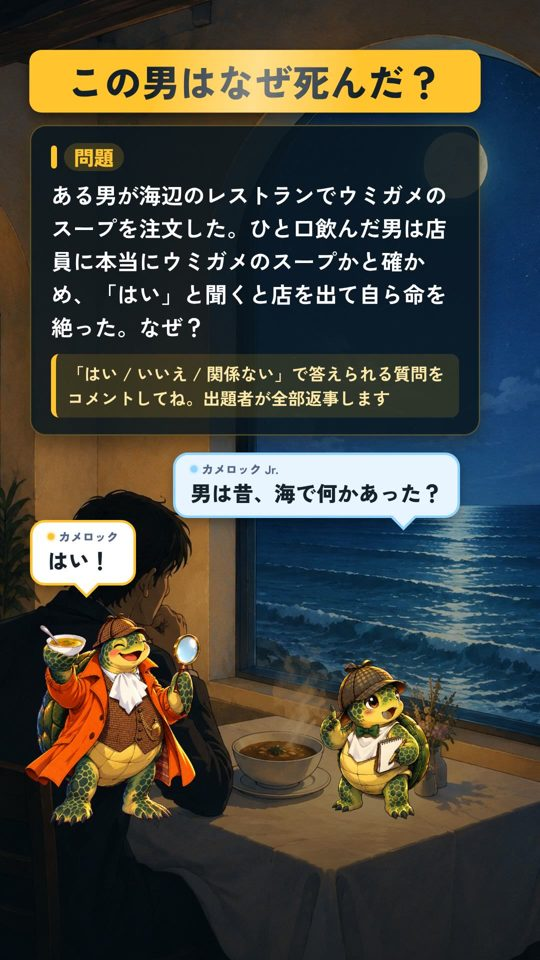
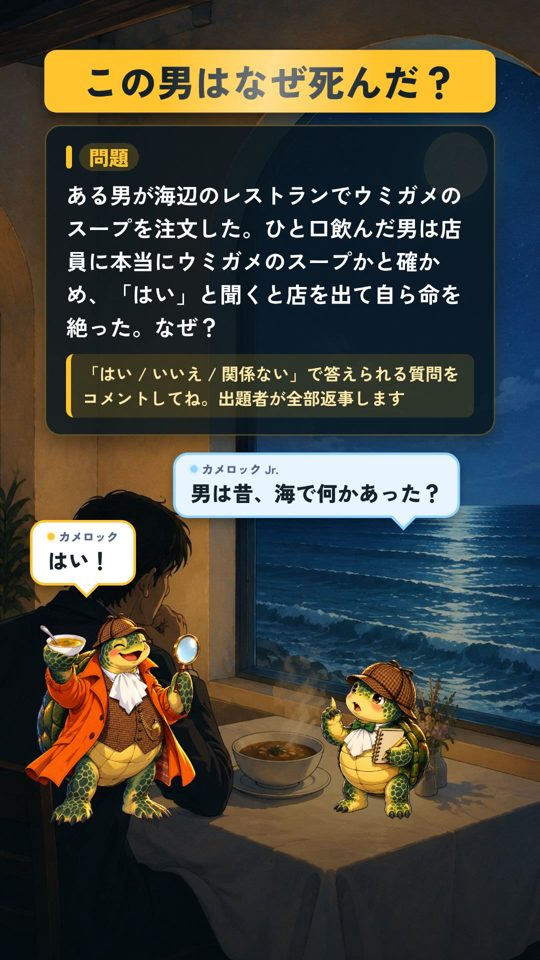
21-2 第 3 稿: Jr. の視線を親へ向け、つかみ帯と問題カードを左右中央に配置
- Jr. を「頭・体・瞳を左（父の方向）へ向ける」指定で生成し直し（単色マゼンタ背景を明示して透過を確実化）
- つかみ帯と問題カードの left を 60 → 90 にして左右の余白を揃えた
- key_out_background.py を外周の代表色 + 外周連結の塗りつぶし方式へ改良（彩度の低い輪郭線は背景色から除外）。ノイズ状背景は抜けないため単色背景で生成し直す方針を README に記録

Changed region(s): [[0.0296, 0.0312, 0.9481, 0.4688], [0.5926, 0.6875, 0.8, 0.875]]

diff --git a/content/video-build/umigame-soup-1/remotion/src/UmigameReel.tsx b/content/video-build/umigame-soup-1/remotion/src/UmigameReel.tsx
@@ -111,7 +111,7 @@ export const UmigameReel: React.FC<UmigameReelProps> = ({
         name="Hook band"
         style={{
           position: "absolute",
-          left: 60,
+          left: 90,
           top: 100,
           width: 900,
           boxSizing: "border-box",
@@ -149,7 +149,7 @@ export const UmigameReel: React.FC<UmigameReelProps> = ({
         name="Problem card"
         style={{
           position: "absolute",
-          left: 60,
+          left: 90,
           top: 250,
           width: 900,
           boxSizing: "border-box",

diff --git a/content/video-build/umigame-soup-1/scripts/key_out_background.py b/content/video-build/umigame-soup-1/scripts/key_out_background.py
@@ -1,37 +1,106 @@
-"""単色背景（imagegen が透過を無視して塗ったマゼンタ等）を抜いて透過 PNG にする（PIL。Docker で実行）。
+"""imagegen が透過を無視して塗った背景を抜いて透過 PNG にする（PIL のみ。Docker で実行）。
 
-四隅の色を背景色とみなし、色距離が threshold 未満の画素を透明に、threshold〜threshold*1.6 の画素は
-線形にアルファを落とす（縁のハロー軽減）。使い方: key_out_background.py <in.png> <out.png> [threshold=90]
+imagegen は透過指定を無視して単色（マゼンタ等）やノイズ状の彩度の高い背景を返すことがある
+（21-2 第 2 稿の Jr. で 2 回発生）。四隅の 1 色だけを見る単純なキーではノイズ背景を抜けないため、
+
+  1. 外周の画素から代表色（量子化して出現率の高い色）を数色拾う。彩度の低い色は除く
+     （黒い輪郭線を背景色に含めるとキャラの中まで抜けてしまう）
+  2. どれかの代表色に近い画素を「背景候補」とする
+  3. 背景候補のうち **画像の外周とつながっている領域だけ** を透明にする
+     （キャラ内部の同系色〔緑の肌など〕を誤って抜かないため。輪郭線が濃いので漏れにくい）
+  4. 縁 1〜2 画素はアルファを段階的に落としてハローを減らす
+
+使い方: key_out_background.py <in.png> <out.png> [threshold=110]
 """
+
 from __future__ import annotations
 
 import sys
+from collections import Counter, deque
 from pathlib import Path
 
 from PIL import Image
 
+QUANT = 24  # 代表色を拾うときの量子化幅
+
+
+def border_palette(px, w: int, h: int, band: int = 3) -> list[tuple[int, int, int]]:
+    counter: Counter = Counter()
+    for y in range(h):
+        for x in range(w):
+            if x >= band and x < w - band and y >= band and y < h - band:
+                continue
+            r, g, b, _ = px[x, y]
+            counter[(r // QUANT, g // QUANT, b // QUANT)] += 1
+    total = sum(counter.values())
+    palette = []
+    for key, count in counter.most_common(12):
+        if count / total < 0.03:
+            continue
+        color = tuple(int(c * QUANT + QUANT / 2) for c in key)
+        # 彩度の低い色（黒い輪郭線・白い小物）は背景色とみなさない。これを入れるとキャラの
+        # 輪郭ごと抜けて内部へ漏れる（21-2 第 2 稿の Jr. で実際に起きた）
+        if max(color) - min(color) < 60 or max(color) < 60:
+            continue
+        palette.append(color)
+    return palette
+
 
 def main() -> int:
     src, dst = Path(sys.argv[1]), Path(sys.argv[2])
-    threshold = float(sys.argv[3]) if len(sys.argv) > 3 else 90.0
+    threshold = float(sys.argv[3]) if len(sys.argv) > 3 else 110.0
     img = Image.open(src).convert("RGBA")
     px = img.load()
     w, h = img.size
-    corners = [px[0, 0], px[w - 1, 0], px[0, h - 1], px[w - 1, h - 1]]
-    bg = tuple(sum(c[i] for c in corners) // 4 for i in range(3))
-    soft = threshold * 1.6
-    keyed = 0
+
+    palette = border_palette(px, w, h)
+    if not palette:
+        raise SystemExit("外周から背景の代表色を拾えませんでした")
+    soft = threshold * 1.5
+
+    def distance(r: int, g: int, b: int) -> float:
+        return min(
+            ((r - pr) ** 2 + (g - pg) ** 2 + (b - pb) ** 2) ** 0.5 for pr, pg, pb in palette
+        )
+
+    # 背景候補（代表色に近い）を判定しつつ、外周からの塗りつぶしで連結成分だけを抜く
+    visited = bytearray(w * h)
+    queue: deque[tuple[int, int]] = deque()
+    for x in range(w):
+        for y in (0, h - 1):
+            queue.append((x, y))
     for y in range(h):
-        for x in range(w):
-            r, g, b, a = px[x, y]
-            d = ((r - bg[0]) ** 2 + (g - bg[1]) ** 2 + (b - bg[2]) ** 2) ** 0.5
-            if d < threshold:
-                px[x, y] = (0, 0, 0, 0)
-                keyed += 1
-            elif d < soft:
-                px[x, y] = (r, g, b, int(a * (d - threshold) / (soft - threshold)))
+        for x in (0, w - 1):
+            queue.append((x, y))
+
+    keyed = 0
+    while queue:
+        x, y = queue.popleft()
+        index = y * w + x
+        if visited[index]:
+            continue
+        visited[index] = 1
+        r, g, b, a = px[x, y]
+        d = distance(r, g, b)
+        if d >= soft:
+            continue
+        if d < threshold:
+            px[x, y] = (0, 0, 0, 0)
+            keyed += 1
+        else:
+            px[x, y] = (r, g, b, int(a * (d - threshold) / (soft - threshold)))
+            continue  # 半透明の縁で伝播を止める
+        if x > 0:
+            queue.append((x - 1, y))
+        if x < w - 1:
+            queue.append((x + 1, y))
+        if y > 0:
+            queue.append((x, y - 1))
+        if y < h - 1:
+            queue.append((x, y + 1))
+
     img.save(dst, "PNG", optimize=True)
-    print(f"{src.name}: bg={bg} keyed {keyed / (w * h):.1%} -> {dst}")
+    print(f"{src.name}: palette={palette} keyed {keyed / (w * h):.1%} -> {dst}")
     return 0
 
 

diff --git a/content/video-build/umigame-soup-1/README.md b/content/video-build/umigame-soup-1/README.md
@@ -56,6 +56,14 @@ python3 build.py classic-umigame --narration polly_Takumi_x125
 
 第 2 稿の ffprobe: h264 1080x1920 30fps / aac 48kHz 2ch / 24.1 秒 / 19.3 MB（-14.4 LUFS / TP -1.7）。継ぎ目はフレーム 0 と 719 の差分で検証。
 
+### 第 3 稿（同日・レビュー第 2 巡の指摘）
+
+- **Jr. の視線を親へ**: 生成プロンプトに「頭・体・瞳を左（父のいる方向）へ明確に向ける」を追加して作り直した。
+- **つかみ帯と問題カードを左右中央へ**: `left: 60` → `left: 90`（幅 900 で左右の余白を 90 ずつに）。
+- **imagegen の背景**: 透過指定を無視した際、緑とマゼンタの**ノイズ状**背景が返ることがある。この場合キャラの緑と
+  色が近く `key_out_background.py` でも抜けない（輪郭ごと漏れる）。**「単色フラットなマゼンタ #FF00FF の背景」を
+  明示して生成し直す**のが確実（この指定だと透過 PNG がそのまま返ることも多い）。
+
 ### 第 2 稿で分かったこと（素材項目・ツーリングへの反映）
 
 - **Polly は問題文 78 字 + ルール 37 字を 125% で 17.8 秒**。24 秒尺なら余裕があり、問題文の上限は 85 字程度まで広げられる（`validate.py` で実測長を検査する方針は変わらない）。
